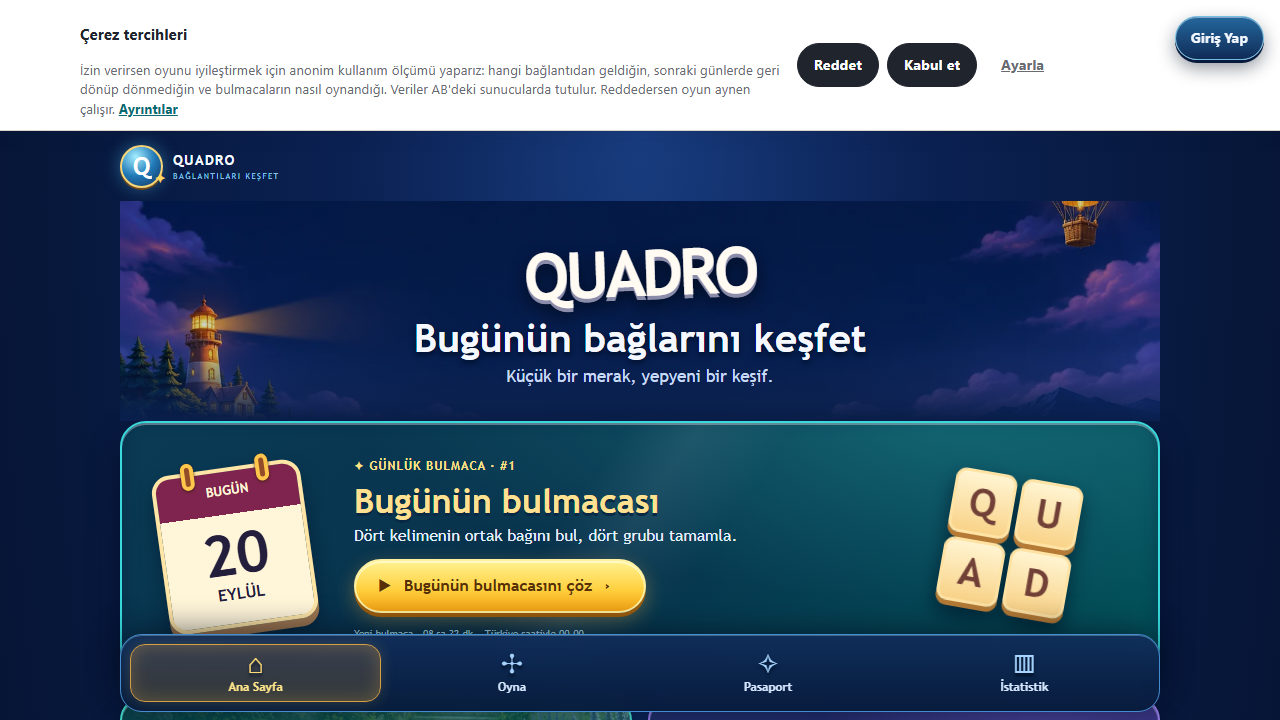
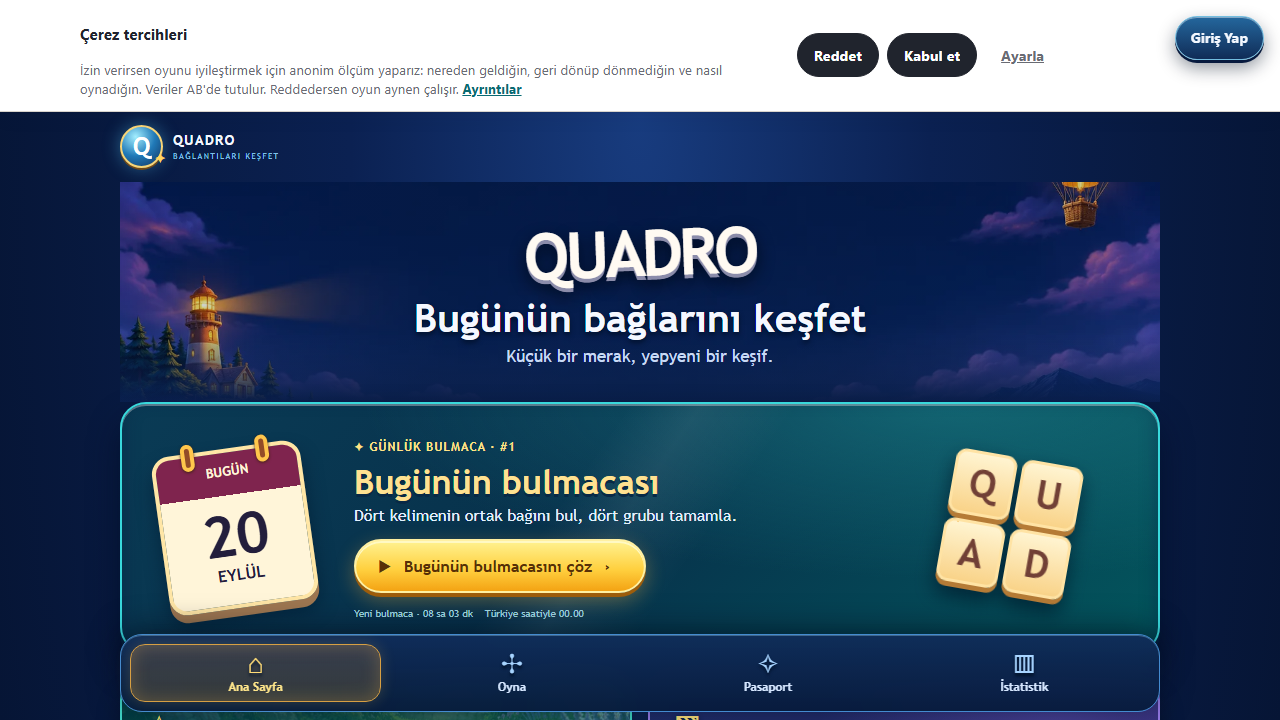
fix(consent): dar ekranda onay şeridini kısalt
CI'daki Linux fontlarıyla şerit 320px genişlikte 309px'e çıkıyor ve
tahtayı ilk ekrandan itiyordu (test sınırı 296px). Metin kısaltıldı,
380px altında boşluklar ve yazı boyu sıkılaştırıldı; ölçülen yükseklik
233px. Ekran görüntüleri yeni metinle yenilendi.

diff --git a/src/components/consent/ConsentBanner.tsx b/src/components/consent/ConsentBanner.tsx
@@ -64,8 +64,8 @@ export function ConsentBanner({ adsAvailable = false }: { adsAvailable?: boolean
         <div className={styles.copy}>
           <h2 id="consent-title" ref={heading} tabIndex={-1} className={styles.title}>Çerez tercihleri</h2>
           <p id="consent-text" className={styles.text}>
-            İzin verirsen oyunu iyileştirmek için anonim kullanım ölçümü yaparız: hangi bağlantıdan geldiğin,
-            sonraki günlerde geri dönüp dönmediğin ve bulmacaların nasıl oynandığı. Veriler AB&apos;deki sunucularda tutulur.
+            İzin verirsen oyunu iyileştirmek için anonim ölçüm yaparız: nereden geldiğin, geri dönüp dönmediğin ve
+            nasıl oynadığın. Veriler AB&apos;de tutulur.
             {adsAvailable ? " Reklam onayı, Google reklamlarının çerez kullanmasına izin verir." : ""}
             {" "}Reddedersen oyun aynen çalışır. <Link href="/gizlilik-politikasi">Ayrıntılar</Link>
           </p>

diff --git a/src/components/consent/ConsentBanner.module.css b/src/components/consent/ConsentBanner.module.css
@@ -133,6 +133,22 @@
   box-shadow: var(--q-shadow-focus);
 }
 
+/* Dar telefonlarda şerit kısa kalsın: tahta ilk ekranda görünsün. */
+@media (max-width: 380px) {
+  .banner {
+    padding-block: var(--q-space-2);
+  }
+
+  .text {
+    font-size: 0.8rem;
+    line-height: 1.4;
+  }
+
+  .secondary {
+    min-height: 32px;
+  }
+}
+
 @media (min-width: 720px) {
   .inner {
     grid-template-columns: minmax(0, 1fr) auto;
